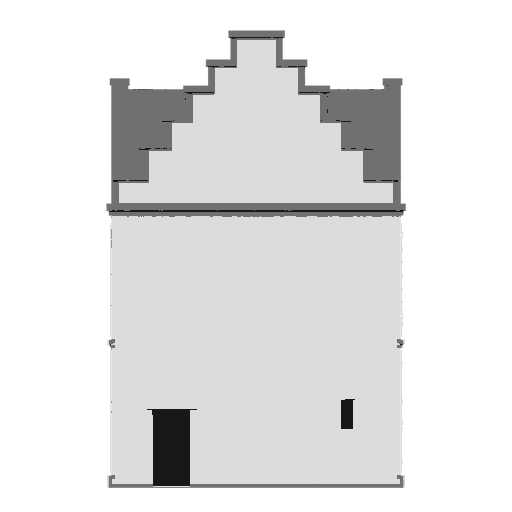
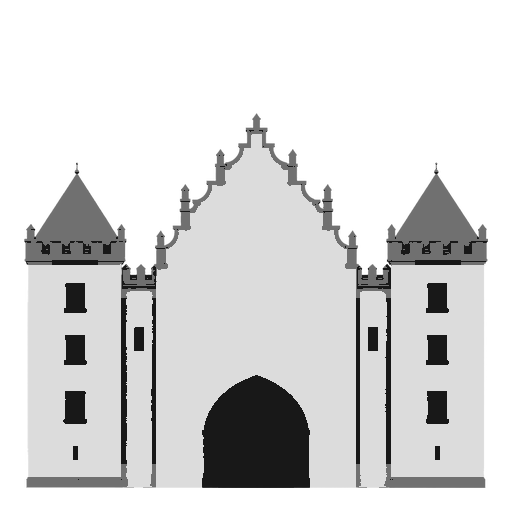
Raise tiered service marks and replace tab art

diff --git a/crates/strategic-web/static/css/layout.css b/crates/strategic-web/static/css/layout.css
@@ -143,6 +143,21 @@
   --settlement-horizon-image: url("/static/styles/timber-framed/background/city/river.png?v=urban-foregrounds-1");
 }
 
+.settlement-top-bar[data-building-tier="village"] {
+  --service-icon-bottom: 0.42rem;
+  --service-icon-size: 1.6rem;
+}
+
+.settlement-top-bar[data-building-tier="town"] {
+  --service-icon-bottom: 0.92rem;
+  --service-icon-size: 1.7rem;
+}
+
+.settlement-top-bar[data-building-tier="city"] {
+  --service-icon-bottom: 1.28rem;
+  --service-icon-size: 1.75rem;
+}
+
 .settlement-top-bar[data-environment="settlement"] > * {
   position: relative;
   z-index: 1;
@@ -325,7 +340,7 @@
    individual assets exist, so a missing higher-tier image never becomes a 404. */
 .settlement-top-bar:is([data-building-tier="village"], [data-building-tier="town"], [data-building-tier="city"])
   .nav-tab[data-service-id="map"] {
-  --service-building-image: url("/static/styles/timber-framed/building/village/map.png");
+  --service-building-image: url("/static/styles/timber-framed/building/village/map.png?v=gatehouse-1");
 }
 .settlement-top-bar:is([data-building-tier="village"], [data-building-tier="town"], [data-building-tier="city"])
   .nav-tab[data-service-id="merchants"] {
@@ -357,7 +372,7 @@
 }
 
 /* Higher tiers are complete sets; village remains the explicit fallback above. */
-.settlement-top-bar[data-building-tier="town"] .nav-tab[data-service-id="map"] { --service-building-image: url("/static/styles/timber-framed/building/town/map.png"); }
+.settlement-top-bar[data-building-tier="town"] .nav-tab[data-service-id="map"] { --service-building-image: url("/static/styles/timber-framed/building/town/map.png?v=gatehouse-1"); }
 .settlement-top-bar[data-building-tier="town"] .nav-tab[data-service-id="merchants"] { --service-building-image: url("/static/styles/timber-framed/building/town/merchants.png"); }
 .settlement-top-bar[data-building-tier="town"] .nav-tab[data-service-id="weapons"] { --service-building-image: url("/static/styles/timber-framed/building/town/weapons.png"); }
 .settlement-top-bar[data-building-tier="town"] .nav-tab[data-service-id="armor"] { --service-building-image: url("/static/styles/timber-framed/building/town/armor.png"); }
@@ -366,7 +381,7 @@
 .settlement-top-bar[data-building-tier="town"] .nav-tab[data-service-id="inn"] { --service-building-image: url("/static/styles/timber-framed/building/town/inn.png"); }
 .settlement-top-bar[data-building-tier="town"] .nav-tab[data-service-id="religion"] { --service-building-image: url("/static/styles/timber-framed/building/town/religion.png"); }
 
-.settlement-top-bar[data-building-tier="city"] .nav-tab[data-service-id="map"] { --service-building-image: url("/static/styles/timber-framed/building/city/map.png"); }
+.settlement-top-bar[data-building-tier="city"] .nav-tab[data-service-id="map"] { --service-building-image: url("/static/styles/timber-framed/building/city/map.png?v=gatehouse-1"); }
 .settlement-top-bar[data-building-tier="city"] .nav-tab[data-service-id="merchants"] { --service-building-image: url("/static/styles/timber-framed/building/city/merchants.png"); }
 .settlement-top-bar[data-building-tier="city"] .nav-tab[data-service-id="weapons"] { --service-building-image: url("/static/styles/timber-framed/building/city/weapons.png"); }
 .settlement-top-bar[data-building-tier="city"] .nav-tab[data-service-id="armor"] { --service-building-image: url("/static/styles/timber-framed/building/city/armor.png"); }
@@ -411,9 +426,9 @@
 .settlement-top-bar[data-environment="settlement"] .service-tab-icon {
   position: absolute;
   left: 50%;
-  bottom: 0.34rem;
-  width: 1.65rem;
-  height: 1.65rem;
+  bottom: var(--service-icon-bottom, 0.42rem);
+  width: var(--service-icon-size, 1.6rem);
+  height: var(--service-icon-size, 1.6rem);
   transform: translateX(-50%);
   background-color: transparent;
   -webkit-mask: none;
@@ -430,15 +445,15 @@
   content: "";
 }
 
-.service-tab-icon-market { --service-tab-icon: url("/static/icons/game/scales.svg"); }
-.service-tab-icon-weapons { --service-tab-icon: url("/static/icons/game/sword-brandish.svg"); }
-.service-tab-icon-armor { --service-tab-icon: url("/static/icons/game/breastplate.svg"); }
-.service-tab-icon-clothing { --service-tab-icon: url("/static/icons/game/clothes.svg"); }
-.service-tab-icon-medical-pack { --service-tab-icon: url("/static/icons/game/medical-pack.svg"); }
-.service-tab-icon-inn { --service-tab-icon: url("/static/icons/game/beer-stein.svg"); }
+.service-tab-icon-market { --service-tab-icon: url("/static/icons/settlement-services/market.png"); }
+.service-tab-icon-weapons { --service-tab-icon: url("/static/icons/settlement-services/weapons.png"); }
+.service-tab-icon-armor { --service-tab-icon: url("/static/icons/settlement-services/armor.png"); }
+.service-tab-icon-clothing { --service-tab-icon: url("/static/icons/settlement-services/clothing.png"); }
+.service-tab-icon-medical-pack { --service-tab-icon: url("/static/icons/settlement-services/herbalist.png"); }
+.service-tab-icon-inn { --service-tab-icon: url("/static/icons/settlement-services/inn.png"); }
 .service-tab-icon-church { --service-tab-icon: url("/static/icons/game/church.svg"); }
 
-.service-tab-icon-map { --service-tab-icon: url("/static/icons/game/treasure-map.svg"); }
+.service-tab-icon-map { --service-tab-icon: url("/static/icons/settlement-services/travel.png"); }
 .service-tab-icon-loot { --service-tab-icon: url("/static/icons/game/open-chest.svg"); }
 
 .settlement-services .nav-tab:hover .service-tab-icon,

diff --git a/crates/strategic-web/src/templates/layout.rs b/crates/strategic-web/src/templates/layout.rs
@@ -90,7 +90,7 @@ fn page_shell(title: &str, header: Markup, content: Markup, scripts: ScriptProfi
                 link rel="stylesheet" href="/static/css/base.css?v=environment-14";
                 // Shared CSS
                 link rel="stylesheet" href="/static/css/reset.css";
-                link rel="stylesheet" href="/static/css/layout.css?v=left-rail-scrollbars-3-settlement-city-foregrounds-3";
+                link rel="stylesheet" href="/static/css/layout.css?v=left-rail-scrollbars-3-settlement-service-art-4";
                 link rel="stylesheet" href="/static/css/components.css?v=coin-currencies-3";
                 link rel="stylesheet" href="/static/css/strategic.css?v=inventory-browser-15-religion-5-travel-polish-9";
                 link rel="stylesheet" href="/static/css/utilities.css?v=inventory-browser-15";
@@ -392,7 +392,7 @@ pub fn sidebar_section(title: &str, content: Markup) -> Markup {
 mod tests {
     use super::{
         HorizonVariant, building_tier, building_tint, horizon_variant, quest_location_top_bar,
-        settlement_layout_with_session, settlement_top_bar,
+        religion_icon_path, settlement_layout_with_session, settlement_top_bar,
     };
     use crate::spacetimedb::SettlementCategory;
     use maud::html;
@@ -493,7 +493,7 @@ mod tests {
         assert!(markup.contains("aria-label=\"Church\""));
         assert!(markup.contains("aria-current=\"page\""));
         assert!(markup.contains("--service-tab-icon: url("));
-        assert!(markup.contains("/static/icons/religion/catholic-crucifix.svg"));
+        assert!(markup.contains(religion_icon_path(Some("roman_catholic"))));
 
         let css = include_str!("../../static/css/layout.css");
         for service in [

diff --git a/crates/strategic-web/src/templates/components.rs b/crates/strategic-web/src/templates/components.rs
@@ -146,10 +146,10 @@ pub fn stat_icon_path(category: &str, icon: &str) -> String {
     }
 }
 
-/// Open-source religious symbol for a supported profession.
+/// Resolve the shared denomination symbol used by skills and settlement temples.
 pub fn religion_icon_path(religion_id: Option<&str>) -> &'static str {
     match religion_id {
-        Some("roman_catholic") => "/static/icons/religion/catholic-crucifix.svg",
+        Some("roman_catholic") => "/static/icons/religion/catholic-cross-bottony.png",
         Some("lutheran") => "/static/icons/religion/luther-rose.svg",
         Some("reformed") => "/static/icons/religion/huguenot-cross.svg",
         Some("anglican") => "/static/icons/religion/canterbury-cross.svg",
@@ -242,7 +242,7 @@ mod icon_tests {
         );
         assert_eq!(
             religion_icon_path(Some("roman_catholic")),
-            "/static/icons/religion/catholic-crucifix.svg"
+            "/static/icons/religion/catholic-cross-bottony.png"
         );
         assert_eq!(
             religion_icon_path(Some("lutheran")),

diff --git a/docs/llm/PROJECT_MAP.md b/docs/llm/PROJECT_MAP.md
@@ -9,7 +9,7 @@ Build output, Git internals, dependency directories, and generated browser artif
 Start with `AGENTS.md`, then read the root README and the relevant architecture,
 development, or wiki document before changing a subsystem.
 
-## Files (868)
+## Files (876)
 
 - `.cargo/config.toml` — Tooling or build configuration.
 - `.codex/hooks.json` — Repository support file.
@@ -736,6 +736,7 @@ development, or wiki document before changing a subsystem.
 - `crates/strategic-web/static/icons/game/wood-club.svg` — Vector UI or texture asset.
 - `crates/strategic-web/static/icons/religion/ATTRIBUTION.md` — Project documentation.
 - `crates/strategic-web/static/icons/religion/canterbury-cross.svg` — Vector UI or texture asset.
+- `crates/strategic-web/static/icons/religion/catholic-cross-bottony.png` — Binary game or UI asset.
 - `crates/strategic-web/static/icons/religion/catholic-crucifix.svg` — Vector UI or texture asset.
 - `crates/strategic-web/static/icons/religion/fontawesome-cross.svg` — Vector UI or texture asset.
 - `crates/strategic-web/static/icons/religion/fontawesome-star-and-crescent.svg` — Vector UI or texture asset.
@@ -743,6 +744,13 @@ development, or wiki document before changing a subsystem.
 - `crates/strategic-web/static/icons/religion/huguenot-cross.svg` — Vector UI or texture asset.
 - `crates/strategic-web/static/icons/religion/luther-rose.svg` — Vector UI or texture asset.
 - `crates/strategic-web/static/icons/religion/orthodox-cross.svg` — Vector UI or texture asset.
+- `crates/strategic-web/static/icons/settlement-services/armor.png` — Binary game or UI asset.
+- `crates/strategic-web/static/icons/settlement-services/clothing.png` — Binary game or UI asset.
+- `crates/strategic-web/static/icons/settlement-services/herbalist.png` — Binary game or UI asset.
+- `crates/strategic-web/static/icons/settlement-services/inn.png` — Binary game or UI asset.
+- `crates/strategic-web/static/icons/settlement-services/market.png` — Binary game or UI asset.
+- `crates/strategic-web/static/icons/settlement-services/travel.png` — Binary game or UI asset.
+- `crates/strategic-web/static/icons/settlement-services/weapons.png` — Binary game or UI asset.
 - `crates/strategic-web/static/icons/stats/attributes/agility-arm.png` — Binary game or UI asset.
 - `crates/strategic-web/static/icons/stats/attributes/agility-leg.png` — Binary game or UI asset.
 - `crates/strategic-web/static/icons/stats/attributes/immunity.png` — Binary game or UI asset.

diff --git a/crates/strategic-web/AGENTS.md b/crates/strategic-web/AGENTS.md
@@ -254,6 +254,15 @@ cartoon village, a textured painting, or a detailed model building.
   at the upper-right as high-layer corner overlays; they must remain clickable
   when service buildings pass underneath them and must not reserve flex space
   beside the building row.
+- Position service marks with tier-level custom properties, never per-building
+  offsets. Every building in one village, town, or city set must share the same
+  mark baseline and size; taller, more prosperous sets may move the whole mark
+  row upward so centered-low doors remain clear beneath it.
+- Use the original monochrome PNG masks in `static/icons/settlement-services/`
+  for settlement services instead of generic inventory icon SVGs. Keep temple
+  marks denomination-specific by resolving the same religion asset used by the
+  skill menu. Travel architecture is always a gatehouse: a fence-gate shack in
+  villages, a civic gate in towns, and a fortified urban gate in cities.
 - Apply the same time-of-day lighting value to both the tinted building raster
   and its service mark. Keep them as separate layers, but do not let the mark
   remain at full daytime brightness while the architecture darkens.

diff --git a/crates/strategic-web/static/icons/religion/ATTRIBUTION.md b/crates/strategic-web/static/icons/religion/ATTRIBUTION.md
@@ -11,7 +11,8 @@ Vendored icon names: `cross`, `star-and-crescent`, and `star-of-david`.
 
 The Catholic crucifix, Luther rose, Reformed burning-bush cross, Anglican
 Compass Rose cross, and Orthodox cross are project-native, simplified
-monochrome renderings of long-established religious symbols. Their SVG source
-is distributed under the repository's AGPL-3.0 license.
+monochrome renderings of long-established religious symbols. The generated
+Catholic cross bottony PNG is also project-native. These assets are distributed
+under the repository's AGPL-3.0 license.
 
 CSS masks supply every icon's blue-purple mental-skill colour at runtime.
